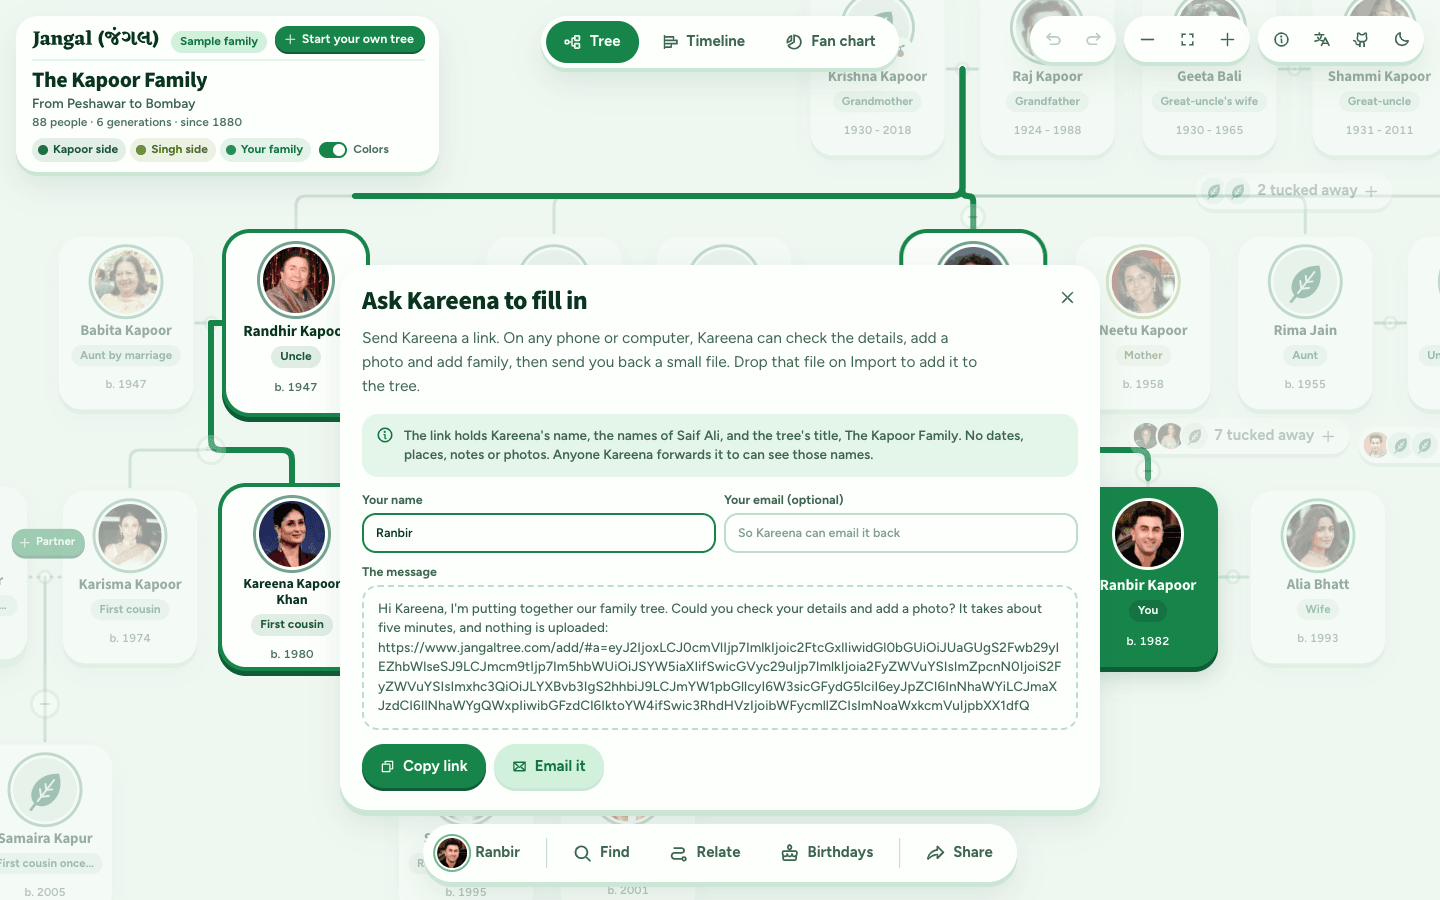
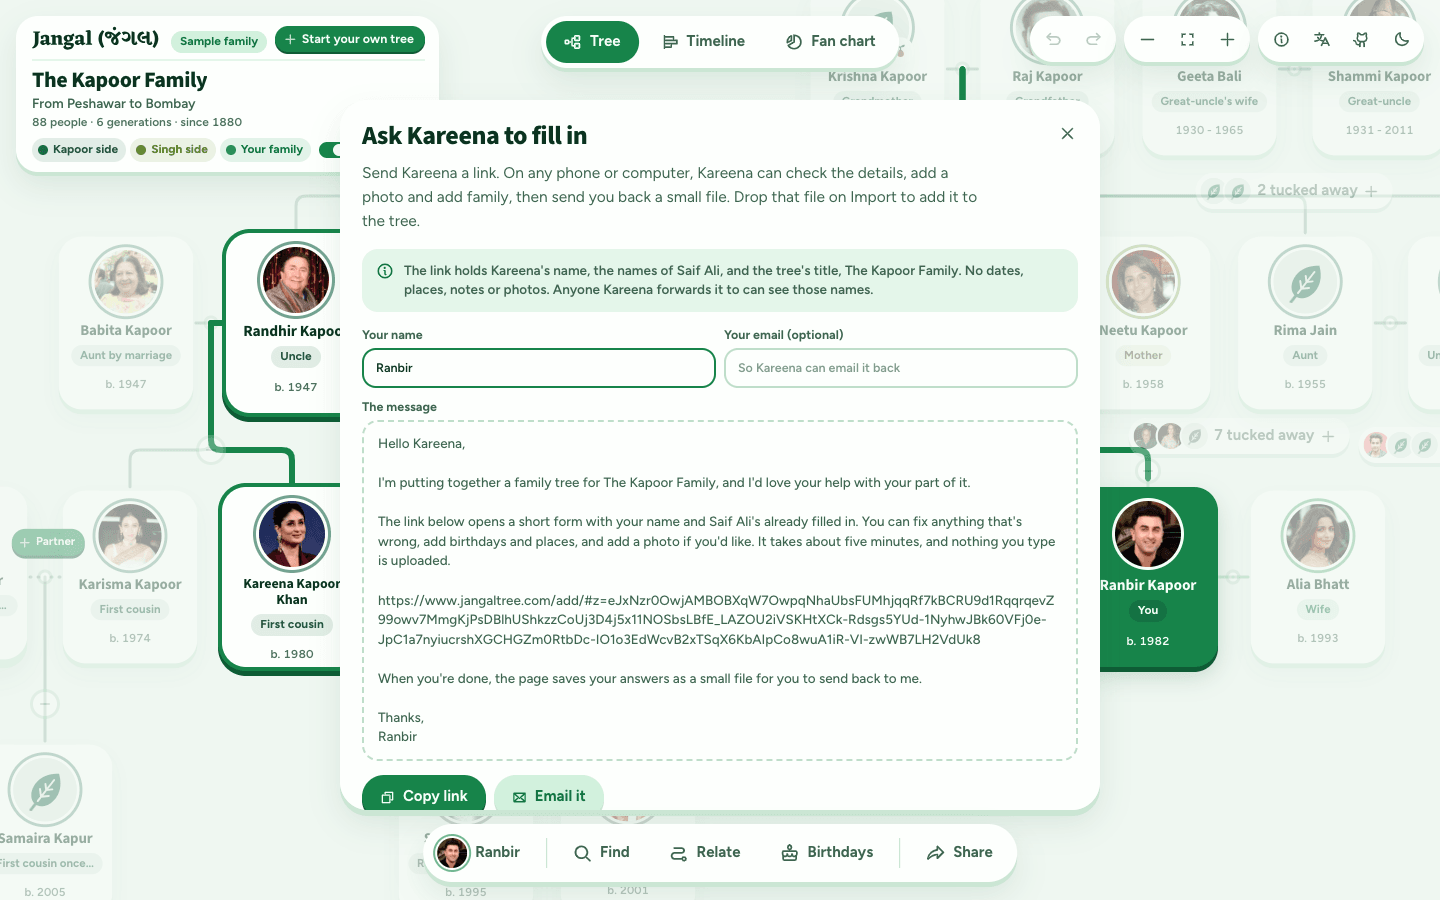
Rewrote the message that asks a relative to fill in their details as a short personal letter with a clearer subject. The link is also compressed to make it shorter, so email filters are less likely to flag it.

Changed region(s): [[0.2188, 0.0933, 0.75, 0.9022]]

diff --git a/src/features/person/AskSheet.tsx b/src/features/person/AskSheet.tsx
@@ -1,7 +1,7 @@
-import { useState } from 'react'
+import { useEffect, useState } from 'react'
 import { toast } from '../../app/actions'
 import { useHome, useIndex, useTitle } from '../../app/derive'
-import { askLinkFor, askUrl } from '../../core/askLink'
+import { askLinkFor, askUrl, type AskLink } from '../../core/askLink'
 import { useTree } from '../../store/treeStore'
 import { useUi } from '../../store/uiStore'
 import { Copy, Envelope, Info, ShareNetwork } from '../../ui/icons'
@@ -42,15 +42,36 @@ export default function AskSheet() {
   const home = useHome()
   const [from, setFrom] = useState<From>(() => readFrom() ?? { name: (home && ix?.person(home)?.firstName) || '', email: '' })
   const person = id && ix ? ix.person(id) : undefined
-  if (!person || !ix || !treeId) return null
+  const link = person && ix && treeId ? askLinkFor(ix, { id: treeId, title }, person.id, from) : null
+  // The link is deflated, which the browser does asynchronously, so it follows a moment behind
+  const key = link ? JSON.stringify(link) : ''
+  const [url, setUrl] = useState('')
+  useEffect(() => {
+    if (!key) return
+    let live = true
+    void askUrl(JSON.parse(key) as AskLink, location.origin, import.meta.env.BASE_URL).then((u) => live && setUrl(u))
+    return () => {
+      live = false
+    }
+  }, [key])
+  if (!person || !link) return null
 
   const first = person.firstName || 'them'
-  const link = askLinkFor(ix, { id: treeId, title }, person.id, from)
-  const url = askUrl(link, location.origin, import.meta.env.BASE_URL)
-  const message = `Hi ${first}, I'm putting together our family tree. Could you check your details and add a photo? It takes about five minutes, and nothing is uploaded: ${url}`
   const others = link.families.flatMap((f) => [f.partner, ...f.children]).filter((x) => x !== undefined).map((x) => x.first)
   const holds = `The link holds ${first}'s name${others.length ? `, the names of ${and(others)},` : ''} and the tree's title${title ? `, ${title}` : ''}. No dates, places, notes or photos. Anyone ${first} forwards it to can see those names.`
-  const ready = !!from.name.trim()
+  // Written like a letter from you: a short note with a bare link was getting marked as spam
+  const tree = !title ? 'our family tree' : /^the /i.test(title) ? `${title} tree` : `the ${title} tree`
+  const subject = `${person.firstName ? `${person.firstName}, can` : 'Can'} you help with ${tree}?`
+  const filled = others.length === 0 ? 'your name' : others.length === 1 ? `your name and ${others[0]}'s` : `your name and the names of ${and(others)}`
+  const message = [
+    person.firstName ? `Hello ${person.firstName},` : 'Hello,',
+    `I'm putting together a family tree for ${title || 'our family'}, and I'd love your help with your part of it.`,
+    `The link below opens a short form with ${filled} already filled in. You can fix anything that's wrong, add birthdays and places, and add a photo if you'd like. It takes about five minutes, and nothing you type is uploaded.`,
+    url,
+    "When you're done, the page saves your answers as a small file for you to send back to me.",
+    `Thanks,\n${from.name.trim()}`,
+  ].join('\n\n')
+  const ready = !!from.name.trim() && !!url
   const canShare = typeof navigator.share === 'function'
 
   const update = (patch: Partial<From>) => {
@@ -60,7 +81,7 @@ export default function AskSheet() {
   }
   const share = async () => {
     try {
-      await navigator.share({ title: 'Our family tree', text: message })
+      await navigator.share({ title: subject, text: message })
     } catch (err) {
       if ((err as Error)?.name !== 'AbortError') toast("The link couldn't be shared. Copy it instead.")
     }
@@ -134,7 +155,8 @@ export default function AskSheet() {
           Copy link
         </button>
         {ready ? (
-          <a className="chunky" href={`mailto:?subject=${encodeURIComponent('Our family tree')}&body=${encodeURIComponent(message)}`}>
+          // Mail links want CRLF line breaks (RFC 6068)
+          <a className="chunky" href={`mailto:?subject=${encodeURIComponent(subject)}&body=${encodeURIComponent(message.replace(/\n/g, '\r\n'))}`}>
             <Envelope />
             Email it
           </a>

diff --git a/src/core/askLink.test.ts b/src/core/askLink.test.ts
@@ -28,28 +28,36 @@ describe('the fill-in link', () => {
     expect(JSON.stringify(link)).not.toMatch(/birth|notes|photo/)
   })
 
-  it('comes back the same from the address, Gujarati names included', () => {
+  it('comes back the same from the address, deflated, Gujarati names included', async () => {
     const link = askLinkFor(indexOf(tree()), { id: 'tree1', title: 'The Kapoor Family' }, 'kareena', { name: 'Ranbir', email: 'r@example.com' })
-    const url = askUrl(link, 'https://jangal.example', '/')
-    expect(url).toMatch(/^https:\/\/jangal\.example\/add\/#a=[\w-]+$/)
-    expect(decodeAskLink(new URL(url).hash)).toEqual(link)
+    const url = await askUrl(link, 'https://jangal.example', '/')
+    expect(url).toMatch(/^https:\/\/jangal\.example\/add\/#z=[\w-]+$/)
+    expect(await decodeAskLink(new URL(url).hash)).toEqual(link)
+    // Shorter than the link as it was, so it looks less like spam
+    expect(new URL(url).hash.length).toBeLessThan(encodeAskLink(link).length * 0.8)
+    // Links sent before they were deflated still open
+    expect(await decodeAskLink(`#a=${encodeAskLink(link)}`)).toEqual(link)
   })
 
-  it('reads nothing from a link that is cut off, made up, or the wrong shape', () => {
-    const good = encodeAskLink(askLinkFor(indexOf(tree()), { id: 'tree1', title: 'T' }, 'kareena', { name: 'Ranbir' }))
-    expect(decodeAskLink('')).toBeNull()
-    expect(decodeAskLink('#a=')).toBeNull()
-    expect(decodeAskLink(`#a=${good.slice(0, -12)}`)).toBeNull()
-    expect(decodeAskLink('#a=bm90IGpzb24')).toBeNull()
+  it('reads nothing from a link that is cut off, made up, or the wrong shape', async () => {
+    const link = askLinkFor(indexOf(tree()), { id: 'tree1', title: 'T' }, 'kareena', { name: 'Ranbir' })
+    const good = encodeAskLink(link)
+    const zipped = new URL(await askUrl(link, 'https://jangal.example')).hash
+    expect(await decodeAskLink('')).toBeNull()
+    expect(await decodeAskLink('#a=')).toBeNull()
+    expect(await decodeAskLink(`#a=${good.slice(0, -12)}`)).toBeNull()
+    expect(await decodeAskLink(zipped.slice(0, -12))).toBeNull()
+    expect(await decodeAskLink('#a=bm90IGpzb24')).toBeNull()
+    expect(await decodeAskLink('#z=bm90IGpzb24')).toBeNull()
     const enc = (o: unknown) => `#a=${encodeAskLink(o as AskLink)}`
-    expect(decodeAskLink(enc({ v: 2, tree: { id: 't' }, from: { name: 'R' }, person: { id: 'p', first: 'P' }, families: [] }))).toBeNull()
-    expect(decodeAskLink(enc({ v: 1, tree: { id: 't' }, from: { name: 'R' }, person: { id: '../x', first: 'P' }, families: [] }))).toBeNull()
+    expect(await decodeAskLink(enc({ v: 2, tree: { id: 't' }, from: { name: 'R' }, person: { id: 'p', first: 'P' }, families: [] }))).toBeNull()
+    expect(await decodeAskLink(enc({ v: 1, tree: { id: 't' }, from: { name: 'R' }, person: { id: '../x', first: 'P' }, families: [] }))).toBeNull()
   })
 
-  it('keeps what it reads in bounds', () => {
+  it('keeps what it reads in bounds', async () => {
     const kids = Array.from({ length: 50 }, (_, i) => ({ id: `k${i}`, first: 'K'.repeat(500) }))
     const odd = { v: 1, tree: { id: 't', title: 7 }, from: { name: 'R', email: 'not an email' }, person: { id: 'p', first: 'P' }, families: [{ status: 'feuding', children: [...kids, { id: 'x' }, 'junk'] }] }
-    const link = decodeAskLink(`#a=${encodeAskLink(odd as unknown as AskLink)}`)!
+    const link = (await decodeAskLink(`#a=${encodeAskLink(odd as unknown as AskLink)}`))!
     expect(link.tree.title).toBe('')
     expect(link.from).toEqual({ name: 'R' })
     expect(link.families[0].status).toBeUndefined()

diff --git a/src/core/askLink.ts b/src/core/askLink.ts
@@ -62,8 +62,20 @@ const fromBase64Url = (s: string) => {
 /** JSON, then UTF-8, then base64url, so names in any script survive being pasted around */
 export const encodeAskLink = (link: AskLink) => toBase64Url(new TextEncoder().encode(JSON.stringify(link)))
 
-/** The page's address with the link after the "#". base is the site's base path, like "/" */
-export const askUrl = (link: AskLink, origin: string, base = '/') => `${origin}${base}add/#a=${encodeAskLink(link)}`
+/** Bytes through the browser's own deflate, one way or the other */
+const deflate = async (bytes: Uint8Array, stream: CompressionStream | DecompressionStream) =>
+  new Uint8Array(await new Response(new Blob([bytes as BlobPart]).stream().pipeThrough(stream)).arrayBuffer())
+
+/**
+ * The page's address with the link after the "#". base is the site's base path, like "/". The link
+ * is deflated first ("#z="), which makes it 40 to 50% shorter: a long link of random letters is
+ * what spam filters look for. A browser without CompressionStream sends it as it is ("#a=").
+ */
+export async function askUrl(link: AskLink, origin: string, base = '/') {
+  const page = `${origin}${base}add/#`
+  if (typeof CompressionStream === 'undefined') return `${page}a=${encodeAskLink(link)}`
+  return `${page}z=${toBase64Url(await deflate(new TextEncoder().encode(JSON.stringify(link)), new CompressionStream('deflate')))}`
+}
 
 const str = (v: unknown, max = MAX_NAME): string | undefined => (typeof v === 'string' && v.trim() ? v.trim().slice(0, max) : undefined)
 const id = (v: unknown) => (typeof v === 'string' && /^[\w-]{1,80}$/.test(v) ? v : undefined)
@@ -78,13 +90,17 @@ function person(v: unknown): AskPerson | undefined {
   return { id: pid, first, ...(last ? { last } : {}) }
 }
 
-/** The link from a page's address ("#a=…"), or null for anything that isn't a whole, good link */
-export function decodeAskLink(hash: string): AskLink | null {
-  const raw = /(?:^#?|&)a=([A-Za-z0-9_-]+)/.exec(hash)?.[1]
+/**
+ * The link from a page's address ("#z=…" deflated, or "#a=…" from before links were), or null for
+ * anything that isn't a whole, good link. A link cut short fails to inflate, so it's null too.
+ */
+export async function decodeAskLink(hash: string): Promise<AskLink | null> {
+  const [, kind, raw] = /(?:^#?|&)([az])=([A-Za-z0-9_-]+)/.exec(hash) ?? []
   if (!raw) return null
   let o: Record<string, unknown>
   try {
-    o = JSON.parse(new TextDecoder('utf-8', { fatal: true }).decode(fromBase64Url(raw)))
+    const bytes = kind === 'z' ? await deflate(fromBase64Url(raw), new DecompressionStream('deflate')) : fromBase64Url(raw)
+    o = JSON.parse(new TextDecoder('utf-8', { fatal: true }).decode(bytes))
   } catch {
     return null
   }

diff --git a/tests/e2e/ask.spec.ts b/tests/e2e/ask.spec.ts
@@ -1,4 +1,5 @@
 import { expect, test, type Page } from '@playwright/test'
+import { inflateSync } from 'node:zlib'
 import { dock, find, openSample, tile } from './helpers'
 
 // SHARE.md: asking a relative to fill in their own details through a link, and importing the reply
@@ -24,8 +25,14 @@ test('a relative fills in the link, and the reply joins the tree with the picked
   await expect(sheet.getByRole('heading', { name: 'Ask Kareena to fill in' })).toBeVisible()
   await expect(sheet.getByLabel('Your name')).toHaveValue('Ranbir')
   await expect(sheet.locator('.ask-holds')).toContainText("Kareena's name, the names of Saif Ali, and the tree's title, The Kapoor Family")
-  const url = (await sheet.locator('.ask-msg').textContent())!.match(/https?:\/\/\S+/)![0]
-  const carried = Buffer.from(new URL(url).hash.replace(/^#a=/, ''), 'base64url').toString('utf8')
+  // The message reads as a letter from you, with the link deflated on its own line
+  const msg = sheet.locator('.ask-msg')
+  await expect(msg).toContainText('/add/#z=')
+  await expect(msg).toContainText(/^Hello Kareena,[\s\S]*your name and Saif Ali's already filled in[\s\S]*Thanks,\s*Ranbir$/)
+  const mail = new URL((await sheet.getByRole('link', { name: 'Email it' }).getAttribute('href'))!)
+  expect(mail.searchParams.get('subject')).toBe('Kareena, can you help with The Kapoor Family tree?')
+  const url = (await msg.textContent())!.match(/https?:\/\/\S+/)![0]
+  const carried = inflateSync(Buffer.from(new URL(url).hash.replace(/^#z=/, ''), 'base64url')).toString('utf8')
   expect(carried).toContain('Saif Ali')
   expect(carried).not.toMatch(/1980|Bombay|Actor|photo/)
 

diff --git a/src/add/AddPage.tsx b/src/add/AddPage.tsx
@@ -171,11 +171,22 @@ function Frame({ children }: { children: ReactNode }) {
 
 /** A link that was cut off or changed: nothing to fill in */
 export function BadLink() {
+  // Links are deflated (askLink.ts), and browsers before 2023 can't inflate them
+  const old = /(?:^#?|&)z=/.test(location.hash) && typeof DecompressionStream === 'undefined'
   return (
     <Frame>
       <section className="add-sec add-note">
-        <h1>This link didn't come through whole</h1>
-        <p>Part of it may have been cut off when it was copied. Ask whoever sent it for a new one, and tap the whole link.</p>
+        {old ? (
+          <>
+            <h1>This browser is too old for this page</h1>
+            <p>Update your phone or computer, or open the link in a current version of Chrome, Safari or Firefox.</p>
+          </>
+        ) : (
+          <>
+            <h1>This link didn't come through whole</h1>
+            <p>Part of it may have been cut off when it was copied. Ask whoever sent it for a new one, and tap the whole link.</p>
+          </>
+        )}
       </section>
     </Frame>
   )

diff --git a/src/add/main.tsx b/src/add/main.tsx
@@ -11,6 +11,6 @@ import { AddPage, BadLink } from './AddPage'
 // The fill-in page (SHARE.md SH-4): its own small page, not the app, so a relative never loads the
 // tree app, its database or its service worker. Everything it needs comes from the link.
 
-const link = decodeAskLink(location.hash)
-
-createRoot(document.getElementById('root')!).render(<StrictMode>{link ? <AddPage link={link} /> : <BadLink />}</StrictMode>)
+void decodeAskLink(location.hash).then((link) =>
+  createRoot(document.getElementById('root')!).render(<StrictMode>{link ? <AddPage link={link} /> : <BadLink />}</StrictMode>),
+)

diff --git a/tests/e2e/a11y.spec.ts b/tests/e2e/a11y.spec.ts
@@ -115,6 +115,7 @@ for (const scheme of ['light', 'dark'] as const) {
       await tile(page, 'randhir').click()
       await page.locator('.pop').getByRole('button', { name: 'Make a link' }).click()
       await page.locator('.ask-sheet').waitFor()
+      await expect(page.locator('.ask-msg')).toContainText('/add/#')
       // Find left the path to Randhir lit and everyone else dimmed on purpose, so only the sheet is scanned
       expect(await scan(page, '.react-flow'), 'Ask sheet').toEqual([])
       const url = (await page.locator('.ask-msg').textContent())!.match(/https?:\/\/\S+/)![0]

diff --git a/src/styles/sheets.css b/src/styles/sheets.css
@@ -736,6 +736,8 @@
     font-weight: 500;
     color: var(--ink-2);
     overflow-wrap: anywhere;
+    /* The message is a short letter, in paragraphs */
+    white-space: pre-line;
     user-select: text;
   }
   a.chunky {
